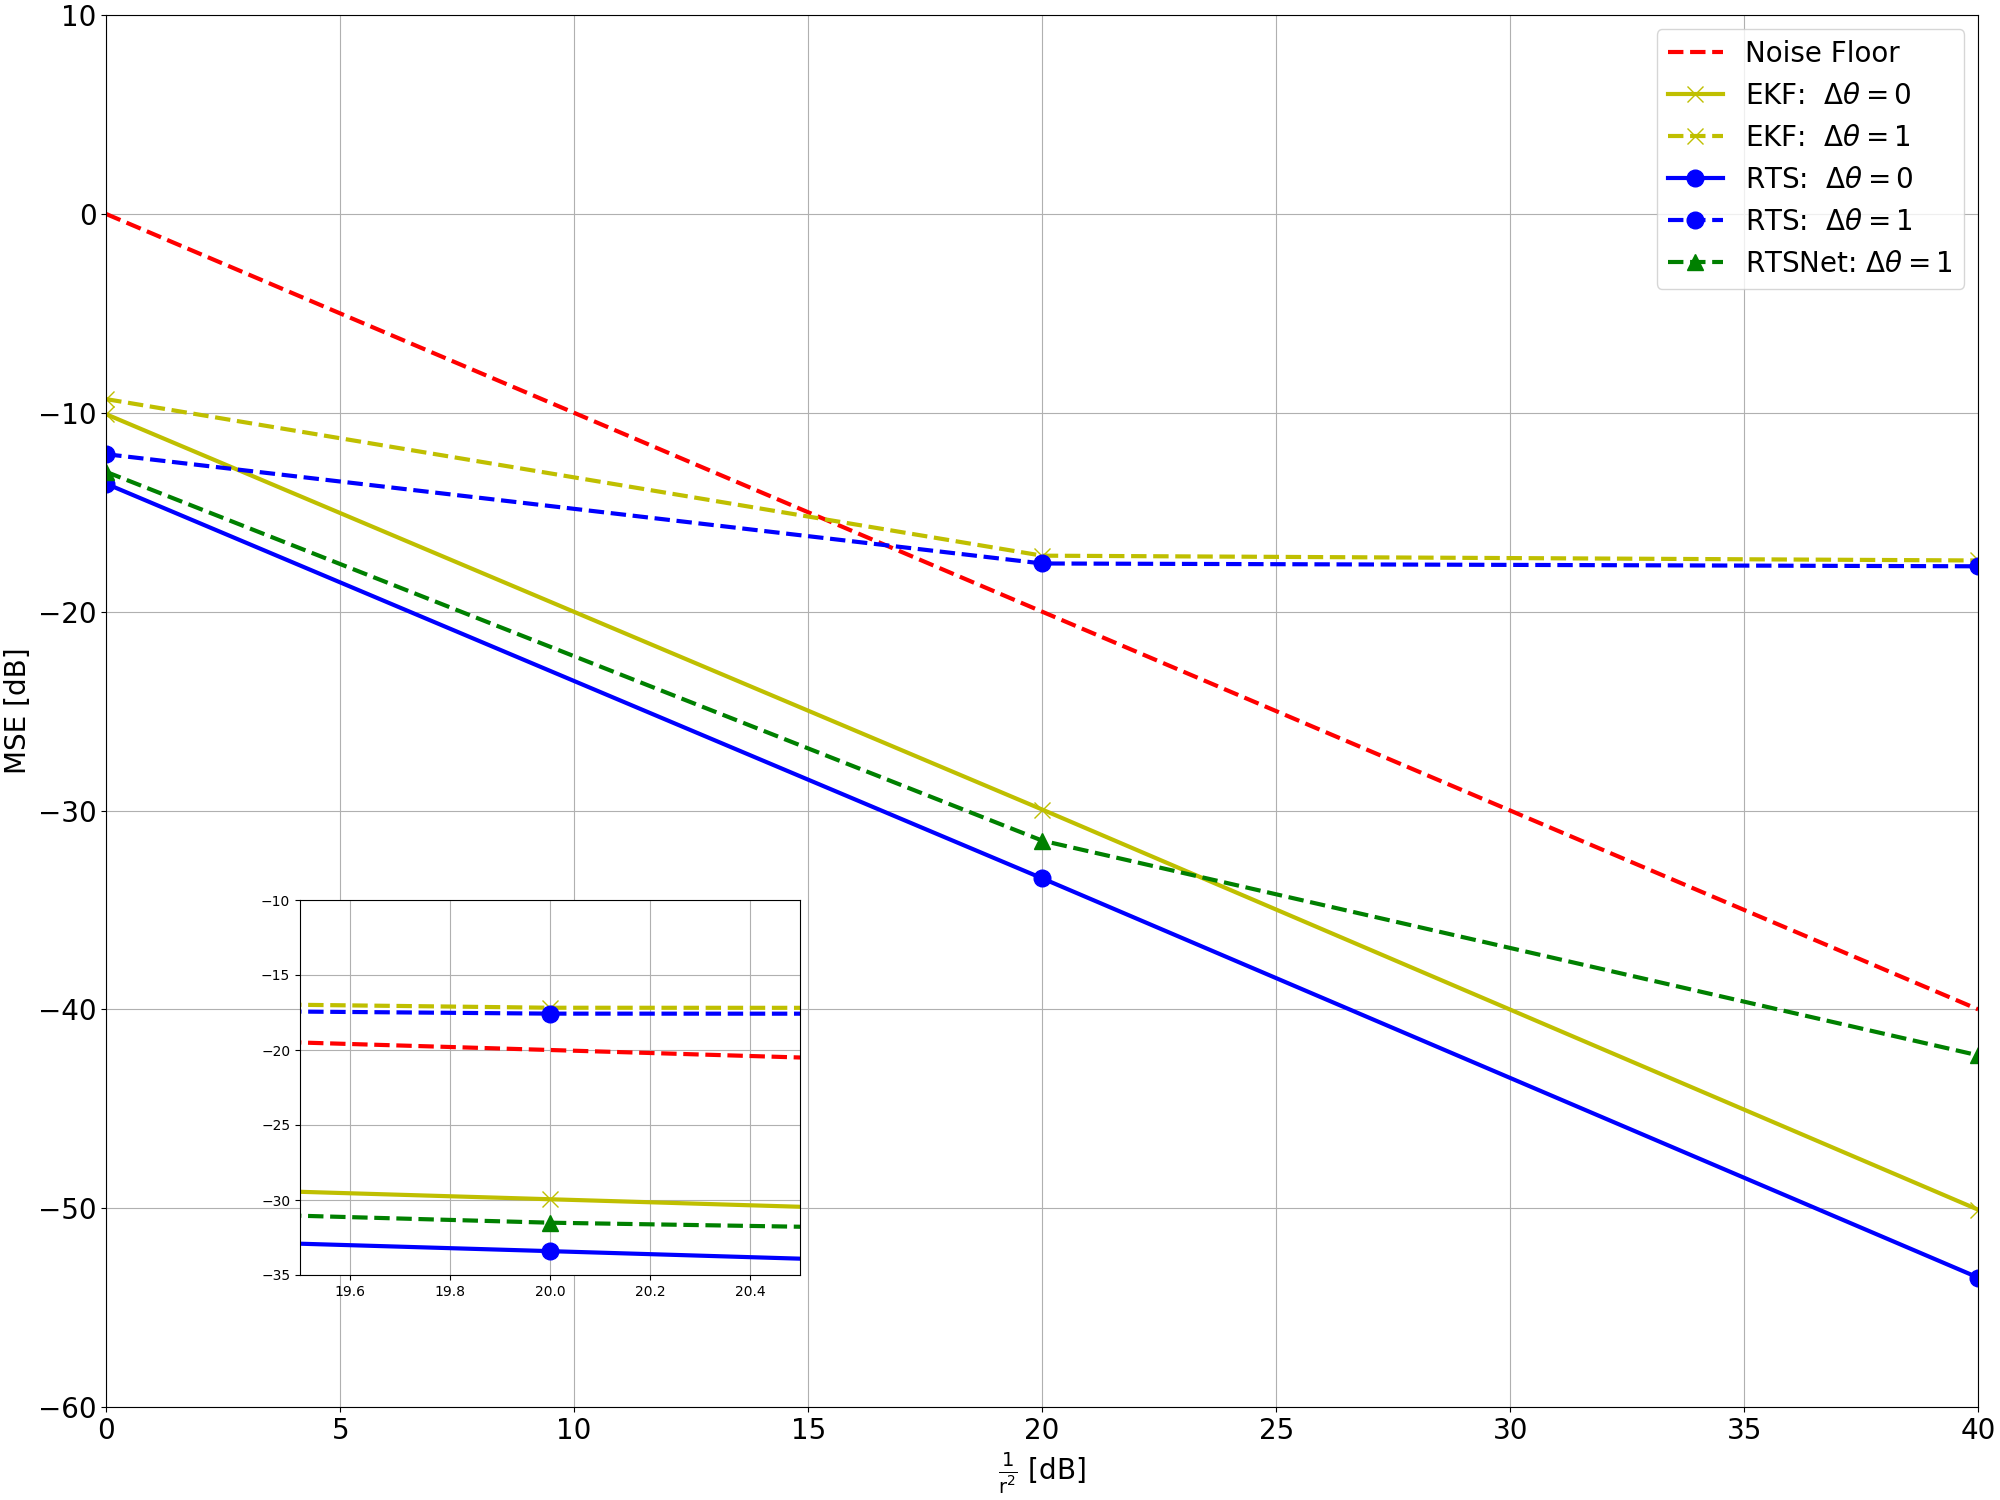
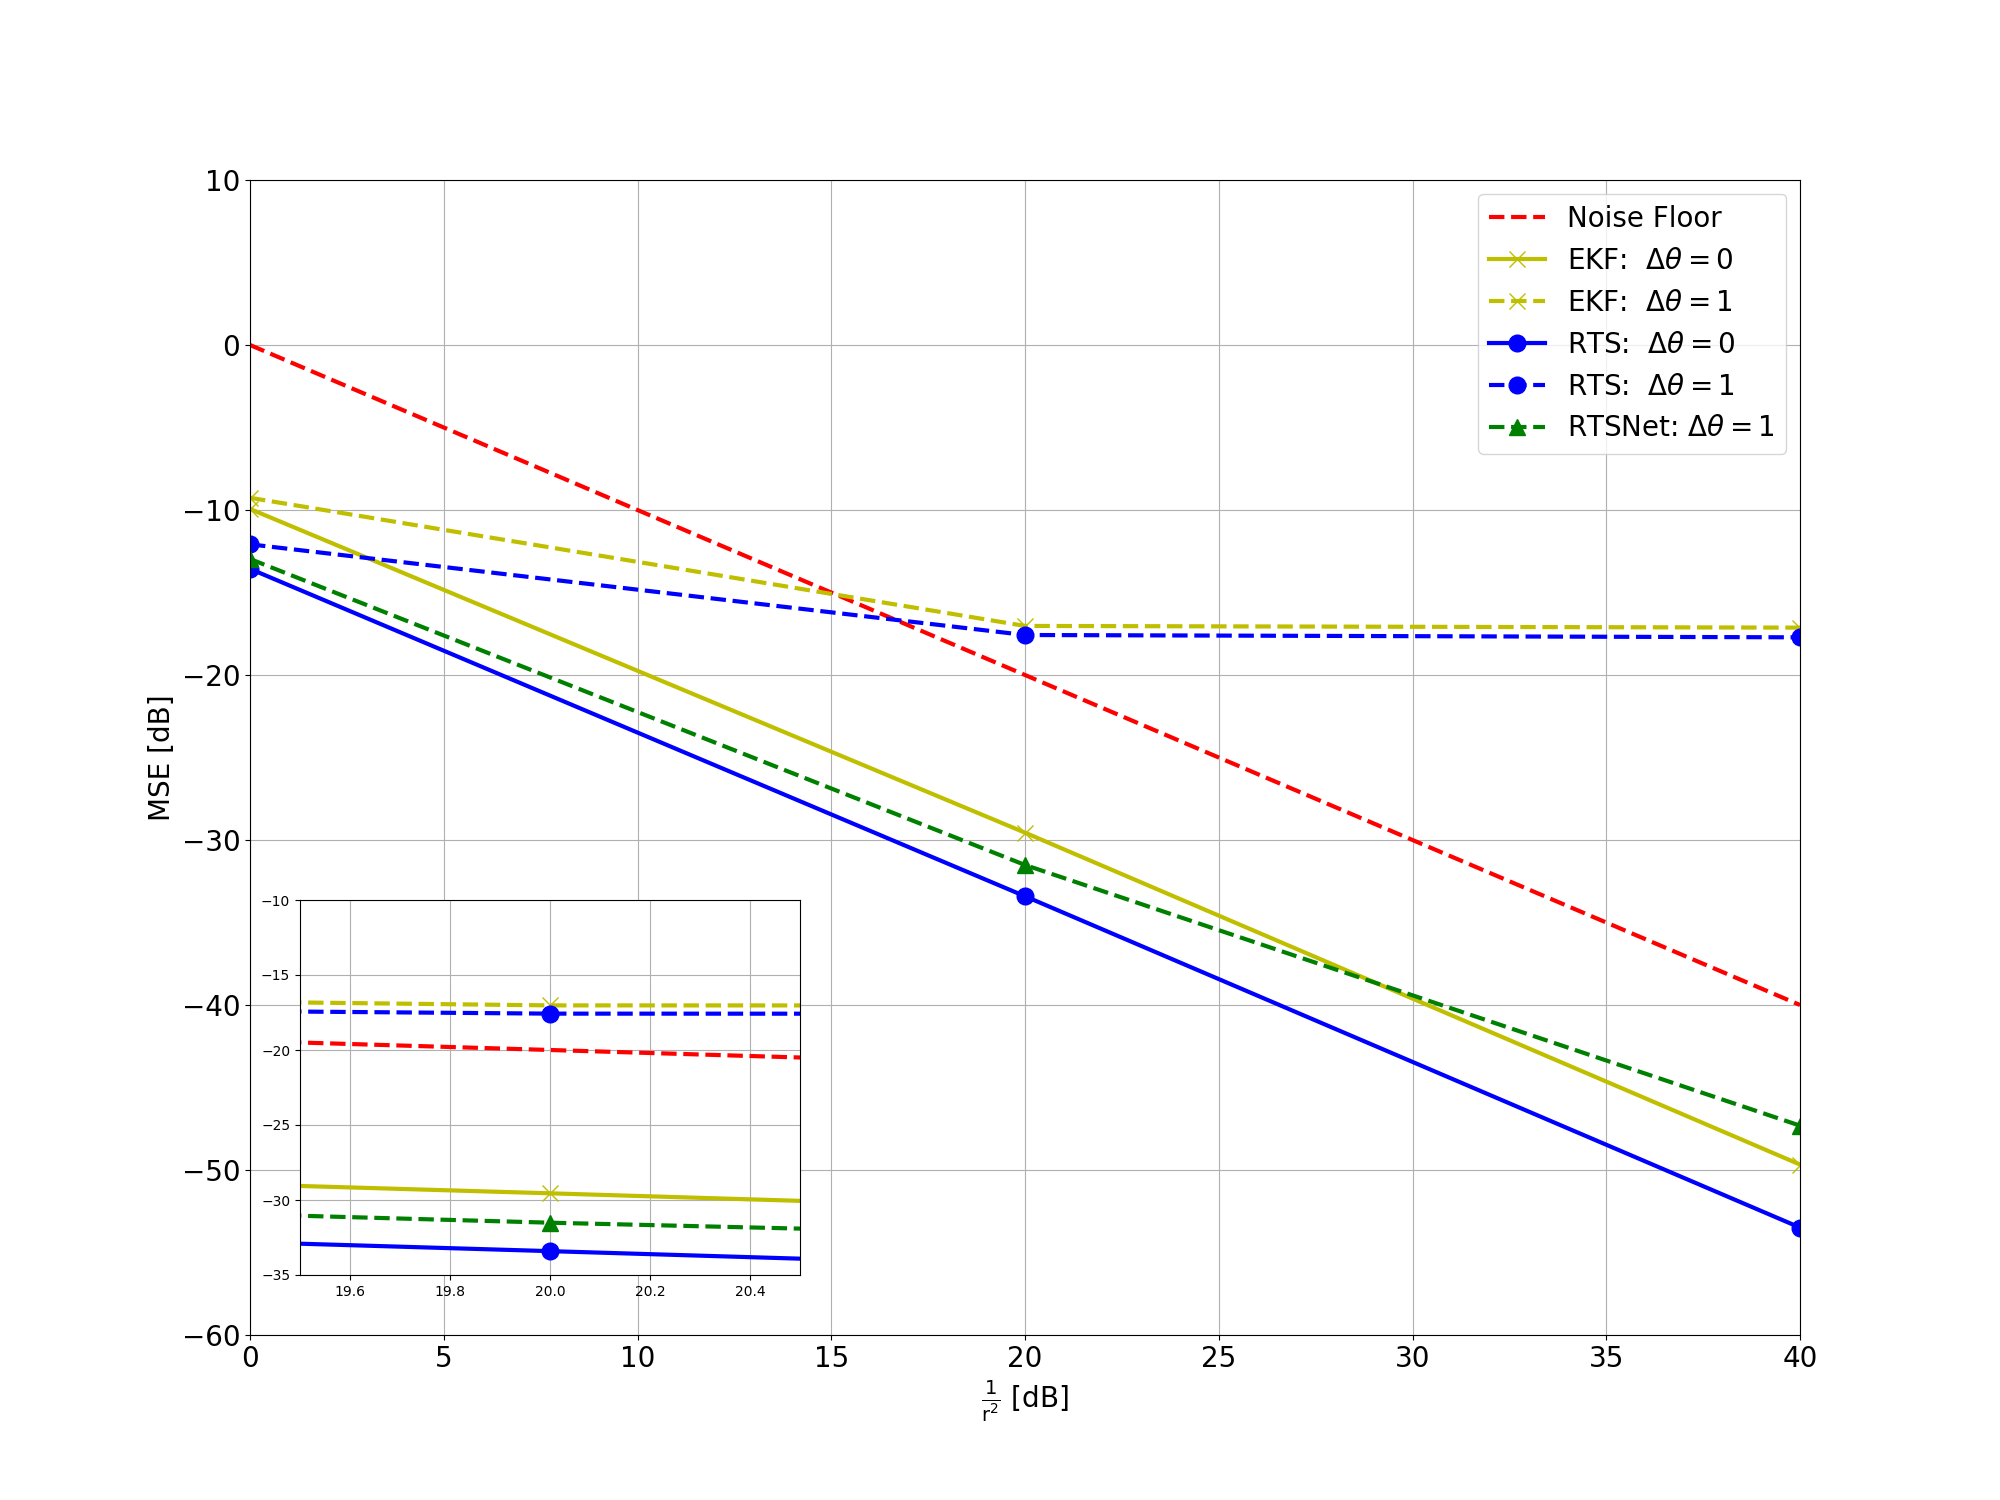
modified lor partial Hrot1 results

diff --git a/GoogleColab_plot.py b/GoogleColab_plot.py
@@ -280,32 +280,32 @@ print("Current Time =", strTime)
 ##################################
 r2 = torch.tensor([1,0.01,0.0001])
 r = torch.sqrt(r2)
-PlotfolderName = 'Simulations/Pendulum/results/partial' + '/'
-PlotResultName = 'partialF_L1.1' 
+PlotfolderName = 'Simulations/Lorenz_Atractor/results/partial' + '/'
+PlotResultName = 'Lor_Partial_Hrot1' 
 ERTSNet_Plot = Plot(PlotfolderName,PlotResultName)
 MSE_Partial_dB = torch.empty(size=[5,len(r)])
 
-MSE_Partial_dB[0,0] = -29.8228
-MSE_Partial_dB[1,0] = -18.1836
-MSE_Partial_dB[2,0] = -29.8228
-MSE_Partial_dB[3,0] = -18.1836
-MSE_Partial_dB[4,0] = -24.7913
+MSE_Partial_dB[0,0] = -10.0708
+MSE_Partial_dB[1,0] = -9.3091
+MSE_Partial_dB[2,0] = -13.5665
+MSE_Partial_dB[3,0] = -12.0794
+MSE_Partial_dB[4,0] = -12.9687
 
-MSE_Partial_dB[0,1] = -49.5694
-MSE_Partial_dB[1,1] = -18.5740
-MSE_Partial_dB[2,1] = -49.5694
-MSE_Partial_dB[3,1] = -18.5740
-MSE_Partial_dB[4,1] = -35.6133
+MSE_Partial_dB[0,1] = -29.9494
+MSE_Partial_dB[1,1] = -17.1828
+MSE_Partial_dB[2,1] = -33.4093
+MSE_Partial_dB[3,1] = -17.5757
+MSE_Partial_dB[4,1] = -31.5129
 
-MSE_Partial_dB[0,2] = -69.6749
-MSE_Partial_dB[1,2] = -18.5855
-MSE_Partial_dB[2,2] = -69.6749
-MSE_Partial_dB[3,2] = -18.5855
-MSE_Partial_dB[4,2] = -48.9057
+MSE_Partial_dB[0,2] = -50.0747
+MSE_Partial_dB[1,2] = -17.4247
+MSE_Partial_dB[2,2] = -53.4887
+MSE_Partial_dB[3,2] = -17.7173
+MSE_Partial_dB[4,2] = -47.3120
 
 MSE_Partial_dB[0,:] = MSE_Partial_dB[0,:] + 0.5*torch.rand(3)
 MSE_Partial_dB[1,:] = MSE_Partial_dB[1,:] + 0.5*torch.rand(3)
-ERTSNet_Plot.Partial_Plot_Pen(r, MSE_Partial_dB)
+ERTSNet_Plot.Partial_Plot_H1(r, MSE_Partial_dB)
 
 ### KNet RTSNet Compare
 
@@ -327,20 +327,20 @@ ERTSNet_Plot.Partial_Plot_Pen(r, MSE_Partial_dB)
 
 # ERTSNet_Plot.Partial_Plot_KNetRTSNet_Compare(r, MSE_Partial_dB)
 
-# r2 = torch.tensor([1,0.01,0.0001])
-# r = torch.sqrt(r2)
-# PlotfolderName = 'Simulations/Lorenz_Atractor/results/partial' + '/'
-# PlotResultName = 'partial_Hrot1_Compare' 
-# ERTSNet_Plot = Plot(PlotfolderName,PlotResultName)
-# MSE_Partial_dB = torch.empty(size=[5,len(r)])
+r2 = torch.tensor([1,0.01,0.0001])
+r = torch.sqrt(r2)
+PlotfolderName = 'Simulations/Lorenz_Atractor/results/partial' + '/'
+PlotResultName = 'partial_Hrot1_Compare' 
+ERTSNet_Plot = Plot(PlotfolderName,PlotResultName)
+MSE_Partial_dB = torch.empty(size=[5,len(r)])
 
-# MSE_Partial_dB[0,0] = -9.787441362019859
-# MSE_Partial_dB[1,0] = -12.9687
+MSE_Partial_dB[0,0] = -9.787441362019859
+MSE_Partial_dB[1,0] = -12.9687
 
-# MSE_Partial_dB[0,1] = -28.81251312346132
-# MSE_Partial_dB[1,1] = -31.5129
+MSE_Partial_dB[0,1] = -28.81251312346132
+MSE_Partial_dB[1,1] = -31.5129
 
-# MSE_Partial_dB[0,2] = -44.87157970003474
-# MSE_Partial_dB[1,2] = -42.3120
+MSE_Partial_dB[0,2] = -44.87157970003474
+MSE_Partial_dB[1,2] = -47.3120
 
-# ERTSNet_Plot.Partial_Plot_KNetRTSNet_Compare(r, MSE_Partial_dB)
+ERTSNet_Plot.Partial_Plot_KNetRTSNet_Compare(r, MSE_Partial_dB)
